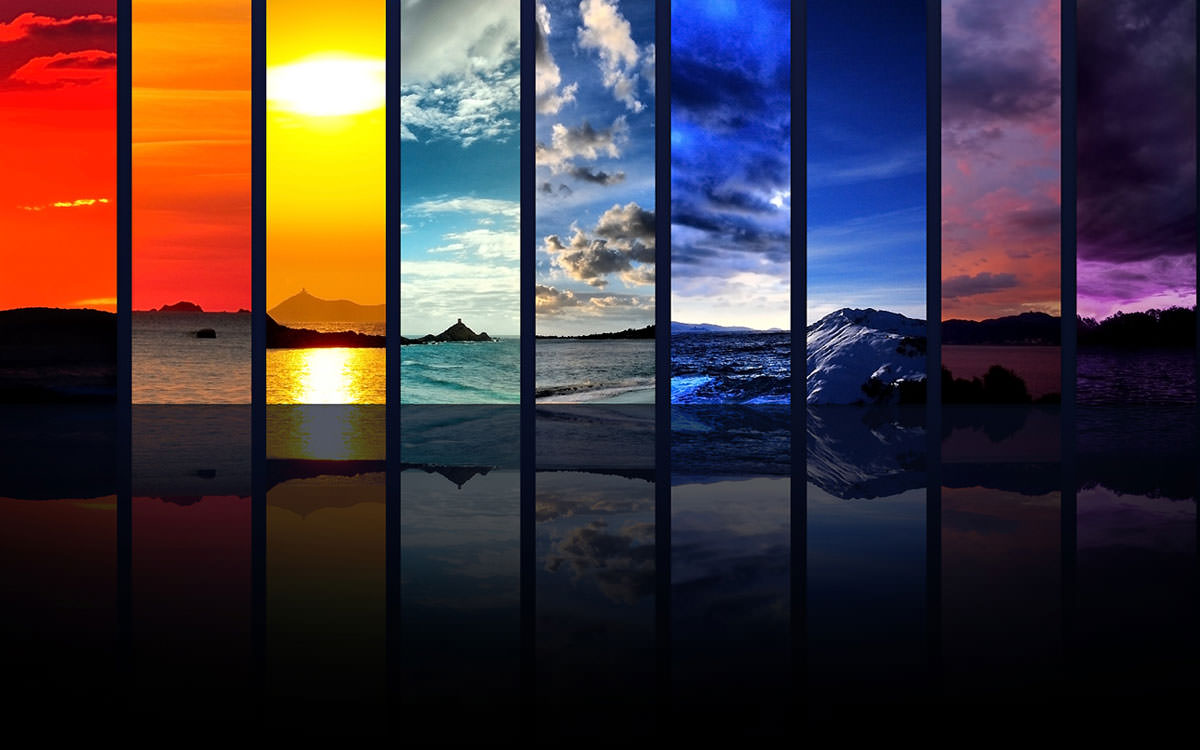
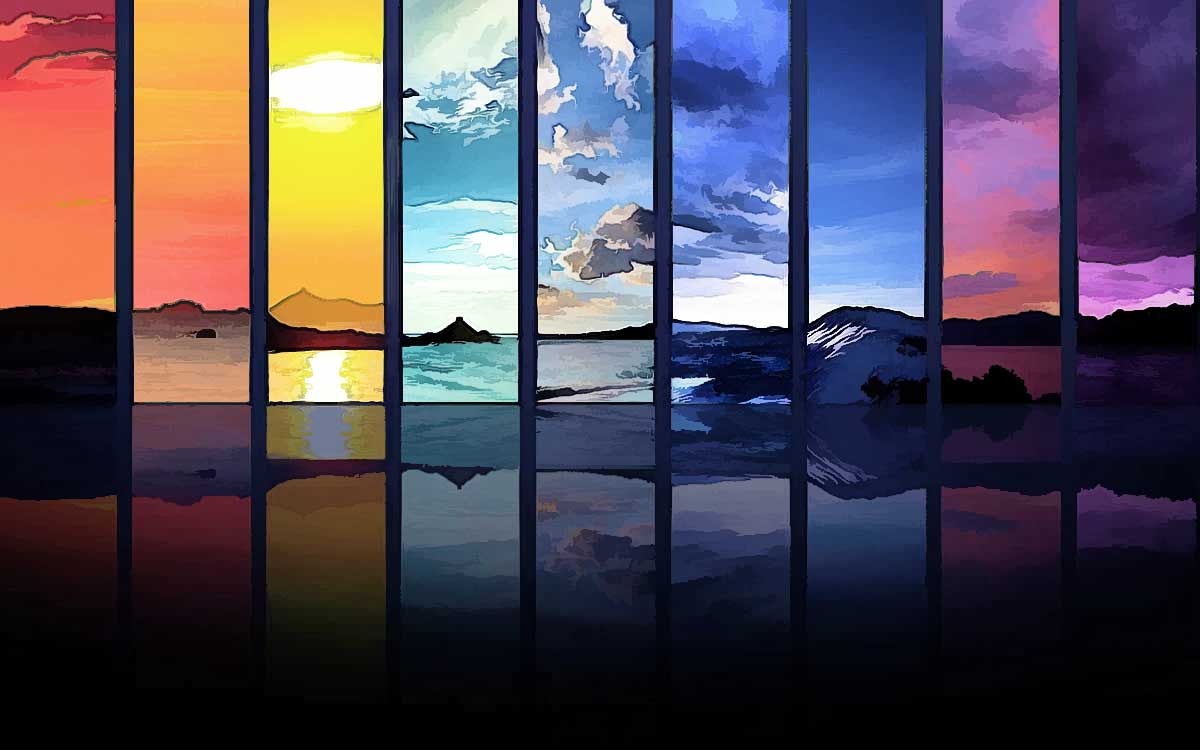
Hoarding img, updated Plus cover

diff --git a/offer-hoarding.htm b/offer-hoarding.htm
@@ -110,12 +110,12 @@
                     <div id="cover-carousel" class="carousel slide" data-ride="carousel">
                         <div class="carousel-inner">
                             <div class="item active">
-                                <div class="img" style="background: url('img/cover1.jpg') center center"></div>
+                                <div class="img" style="background: url('img/hoarding.jpg') center center"></div>
                                 <div class="carousel-caption">
                                     <div class="carousel-text">
-                                        <h2>My Values, Beliefs and Attitudes</h2>
-                                        <h6>Maximum Freedom, Minimum Government</h6>
-                                        <div class="description">Цель моей жизни — поиск единомышленников, которые не только разделяют мои убеждения, но обладают знаниями, навыками и, главное, непреодолимым желанием воплотить их в жизнь.</div>
+                                        <h2>Hoarding</h2>
+                                        <h6>One time event!</h6>
+                                        <div class="description">We start a series of stories describing various issues and problems that are related for the most part to the Internet, and our vision of possible ways to solve them. Those will often be followed by previews of projects mentioned in the stories.</div>
                                         <ul class="features">
                                             <li><span class="glyphicon glyphicon-ok"></span>a <a href="#">lifelong learner</a></li>
                                             <li><span class="glyphicon glyphicon-ok"></span>a dedicated <a href="#">libertarian</a></li>
@@ -123,56 +123,6 @@
                                             <li><span class="glyphicon glyphicon-ok"></span>an <a href="#">info-</a> and <a href="#">crypto-anarchist</a></li>
                                             <li><span class="glyphicon glyphicon-ok"></span>a privacy defender and <a href="#">open government</a> agitator</li>
                                             <li><span class="glyphicon glyphicon-ok"></span>a <a href="#">laissez-faire</a> supporter</li>
-                                        </ul>
-                                    </div>
-                                </div>
-                            </div>
-                            <div class="item">
-                                <div class="img" style="background:url('img/cover2.jpg') center center"></div>
-                                <div class="carousel-caption">
-                                    <div class="carousel-text">
-                                        <h2><a href="#">webRunes</a> Founder</h2>
-                                        <h6>Lifelong learning is our credo,our mission is to enlighten people</h6>
-                                        <div class="description">webRunes is a team of freelancers specializing in various IT and other areas of expertise that are developing <a href="#">WRIO Internet OS</a> platform.</div>
-                                        <ul class="features">
-                                            <li><span class="glyphicon glyphicon-ok"></span>автор <a href="#">принципов</a> webRunes</li>
-                                            <li><span class="glyphicon glyphicon-ok"></span>и <a href="#">концепции Ad hoc команд</a></li>
-                                        </ul>
-                                    </div>
-                                </div>
-                            </div>
-                            <div class="item">
-                                <div class="img" style="background:url('img/cover3.jpg') center center"></div>
-                                <div class="carousel-caption">
-                                    <div class="carousel-text">
-                                        <h2><a href="#">WRIO Internet OS </a> Inventor</h2>
-                                        <h6>All you need is browser</h6>
-                                        <div class="description">WRIO Internet OS или просто WRIO OS — ваше окно в мир децентрализованного, семантического и безопасного интернета на базе технологии блокчеина, с функцией умного помощника. Название является акронимом от “webRunes Input/Output Internet Operating System” и подразумевает в дальнейшем полную замену десктопных операционных систем.
-                                            <br />
-                                            Платформа для реализации <a href="#">Alternative</a>.
-                                        </div>
-                                        <ul class="features">
-                                            <li><span class="glyphicon glyphicon-ok"></span>автор идеи</li>
-                                            <li><span class="glyphicon glyphicon-ok"></span>архитектор проекта</li>
-                                            <li><span class="glyphicon glyphicon-ok"></span>разработчик дизайна и UX</li>
-                                        </ul>
-                                    </div>
-                                </div>
-                            </div>
-                            <div class="item">
-                                <div class="img" style="background:url('img/alternative.jpg') center center"></div>
-                                <div class="carousel-caption">
-                                    <div class="carousel-text">
-                                        <h2><a href="#">Alternative</a> Dreamer</h2>
-                                        <h6>Now you have a choice <a href="https://en.wikipedia.org/wiki/Red_pill_and_blue_pill" target="_blank" data-container="body" data-toggle="popover" data-placement="top" data-trigger="hover" data-original-title="Did you know?" data-content="The red pill and its opposite, the blue pill, are popular culture symbols representing the choice between embracing the sometimes painful truth of reality (red pill) and the blissful ignorance of illusion (blue pill). Click to read more on wikipedia.com"><sup><span class="glyphicon glyphicon-asterisk"></span></sup></a></h6>
-                                        <div class="description">Statism: Centralization, Enforcement and Obedience
-                                            <br />
-                                            VS
-                                            <br />
-                                            Alternative: Decentralization, Cooperation and Freedom.</div>
-                                        <ul class="features">
-                                            <li><span class="glyphicon glyphicon-ok"></span>автор идеи и ее первоначальной реализации</li>
-                                            <li><span class="glyphicon glyphicon-ok"></span>продвижение и распространение</li>
                                         </ul>
                                     </div>
                                 </div>
